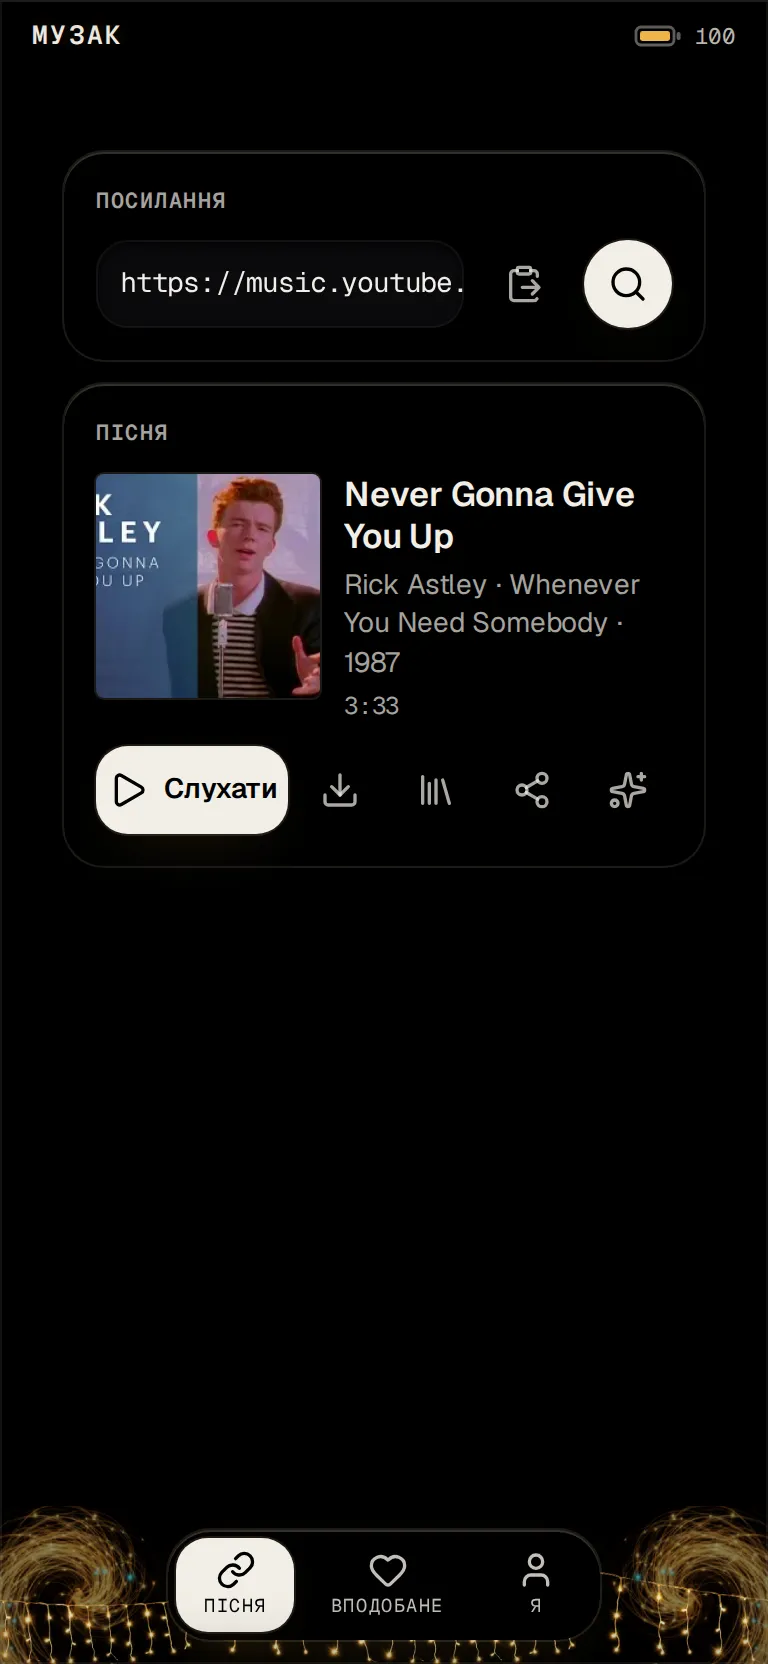
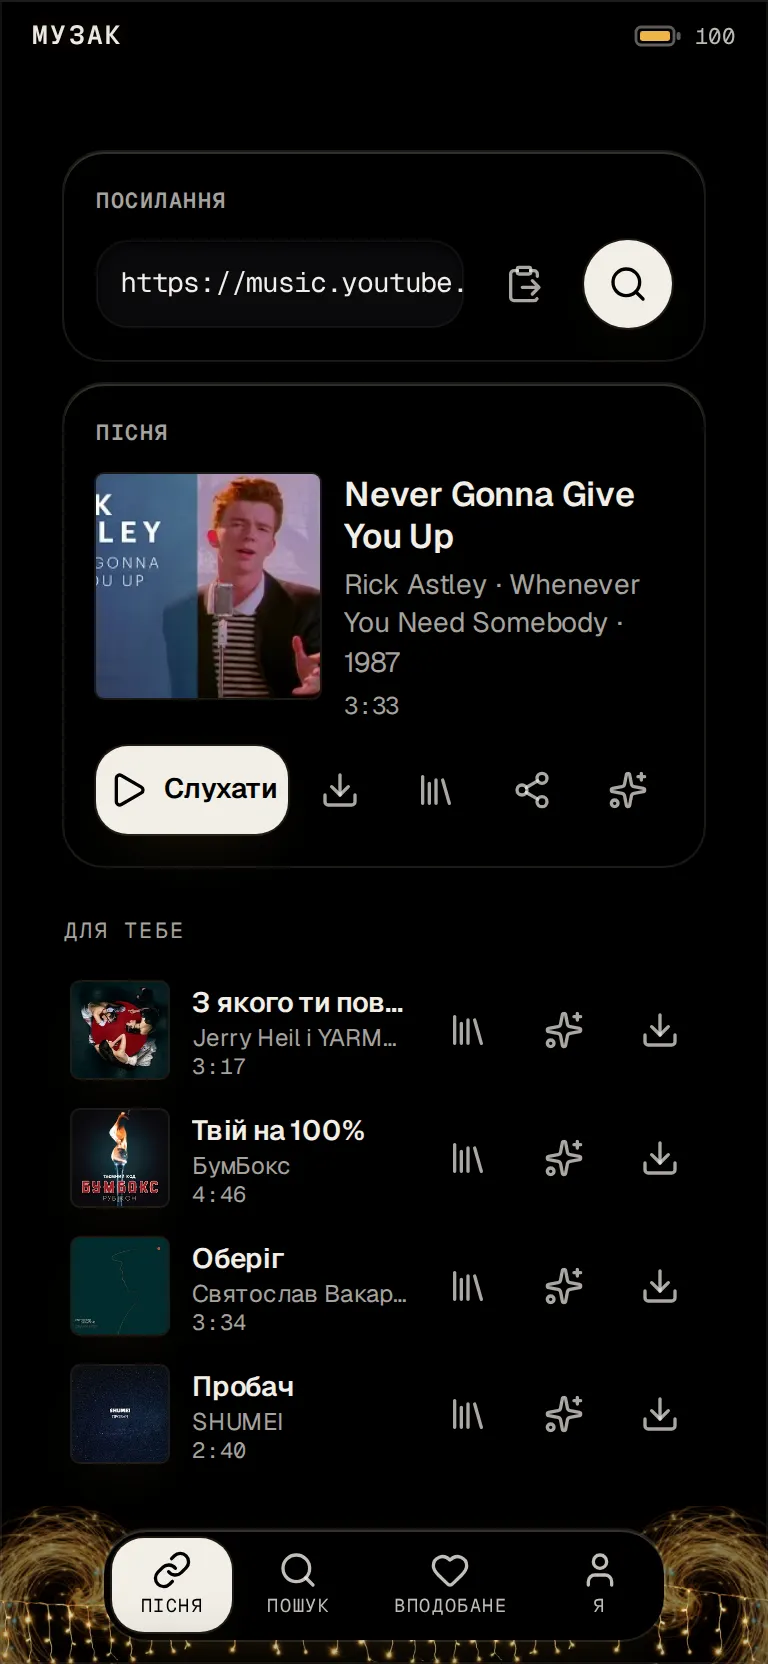
muzak:  — songs like the liked ones, under the song card and on search before a search
radio of the liked songs. The three latest likes' YouTube Music radios (/feed/music/radio, microspec-edge
12052e7: 45-49 songs each in ~0.9 s, measured live) are mixed in turns by rt/muzak.js mixRadios, without the
liked songs; the list scrolls on with the next two likes' radios. Shared by both tabs, read once a visit.
Not connected: one line and . The song tab gets the big player over the list when one of
these plays; the section sits beside the card, so the card's tools stay its own.

The store's song capture retaken with the section; the search capture retaken at the full 2x size the rest
of the store uses (my 2026-10-13 import had halved it).

diff --git a/apps/muzak/view.js b/apps/muzak/view.js
@@ -13,10 +13,10 @@ import { holdAudio } from "/_rt/mediasession.js";
 import { sealedUrl } from "/_rt/sealedfetch.js";
 import { authWall } from "/_rt/authwall.js";
 import { shapeOf, scalePath, shaper } from "/_rt/shape.js";
-import { videoId, clock, byline, errorKey, songOfFound, FIXTURE_LINK, FIXTURE_META, FIXTURE_LIKES, FIXTURE_QUERY, FIXTURE_SEARCH } from "/_rt/muzak.js";
+import { videoId, clock, byline, errorKey, songOfFound, mixRadios, FIXTURE_LINK, FIXTURE_META, FIXTURE_LIKES, FIXTURE_QUERY, FIXTURE_SEARCH, FIXTURE_RADIO } from "/_rt/muzak.js";
 import { taskOne, taskCall } from "/_rt/task.js";
 import { session, restore } from "/_rt/auth.js";
-import { useLikes, LikesConnect, LikesHead, LikeRow, LikesSkeleton } from "/_rt/ytlikes.js";
+import { useLikes, connect, $lBusy, LikesConnect, LikesHead, LikeRow, LikesSkeleton } from "/_rt/ytlikes.js";
 
 
 const Icon = (icon, cls = "") => html`<iconify-icon icon=${icon} class=${cls}></iconify-icon>`;
@@ -186,7 +186,8 @@ export function muzak({ S, toast }) {
   const song = meta ? songOfMeta(meta, link) : null;
   const on = !!song && cur === song.id;
 
-  return html`<div data-muzak data-busy=${busy || null} data-song=${meta ? meta.id : null} data-playing=${on && playing ? "true" : null} class="flex flex-col gap-[var(--ms-gap)] p-[var(--ms-pad)]">
+  return html`<div class="flex flex-col">
+  <div data-muzak data-busy=${busy || null} data-song=${meta ? meta.id : null} data-playing=${on && playing ? "true" : null} class="flex flex-col gap-[var(--ms-gap)] p-[var(--ms-pad)]">
     <${Panel} title=${T(t, "link")}>
       <form class="flex items-center gap-2" onSubmit=${(e) => { e.preventDefault(); find(link); }}>
         <textarea rows="1" data-line ref=${input} data-link inputmode="url" autocomplete="off" autocapitalize="off" spellcheck="false" enterkeyhint="go"
@@ -231,6 +232,9 @@ export function muzak({ S, toast }) {
           class=${`btn btn-ghost btn-circle shrink-0 w-[var(--ms-ctl)] h-[var(--ms-ctl)] min-h-0 ${a.active ? "text-primary" : "text-base-content/70"} ${a.pulse ? "animate-pulse" : ""}`}>${Icon(a.icon, "text-[length:var(--ms-icon)]")}</button>`)}
       </div>`}
     <//>` : null}
+  </div>
+  
+  <div class="px-[var(--ms-pad)] pb-[var(--ms-pad)] pt-2"><${ForYou} t=${t} locale=${locale} toast=${toast} player /></div>
   </div>`;
 }
 
@@ -313,6 +317,84 @@ export function likes({ S, toast, confirm }) {
 }
 
 
+const SEEDS_FIRST = 3, SEEDS_MORE = 2;
+const $recs = atom(gate ? FIXTURE_RADIO.songs.map(songOfFound) : null);   
+const $rbusy = atom(""), $rerr = atom("");   
+let rseed = 0;
+async function readRecs(liked, locale, more = false) {
+  if (gate || $rbusy.get() || (!more && $recs.get()) || rseed >= liked.length) return;
+  const seeds = liked.slice(rseed, rseed + (more ? SEEDS_MORE : SEEDS_FIRST)), was = $recs.get() || [];
+  rseed += seeds.length;
+  $rerr.set(""); $rbusy.set(more ? "more" : "list");
+  try {
+    const got = await Promise.allSettled(seeds.map((s) => fetch(`${VPS_PROXY}/music/radio?v=${s.id}&hl=${locale === "en" ? "en" : "uk"}`, { signal: AbortSignal.timeout(30000) })
+      .then((r) => (r.ok ? r.json() : Promise.reject(r.status)))));
+    const lists = got.filter((g) => g.status === "fulfilled").map((g) => (g.value.songs || []).map(songOfFound));
+    if (!lists.length) { if (!was.length) $rerr.set("errRecs"); return; }
+    const songs = [...was, ...mixRadios(lists, [...liked.map((s) => s.id), ...was.map((s) => s.id)])];
+    $recs.set(songs);
+    if (more && $q.get() === was) $q.set(songs);   
+  } catch { if (!was.length) $rerr.set("errRecs"); }
+  finally { $rbusy.set(""); }
+}
+
+
+function Player({ now, t, locale, toast }) {
+  const playing = useStore($playing), loading = useStore($loading), pos = useStore($pos), dur = useStore($dur), kept = useStore($kept), repeat = useStore($repeat), dl = useStore($dl), mixed = useStore($mixed);
+  return html`<section data-player aria-label=${T(t, "now")} class="flex flex-col items-center gap-[var(--ms-gap)]">
+    <${Orb} song=${now} />
+    <${Transport} form locale=${locale} playing=${playing} onToggle=${() => toggle()} className="w-full pt-1"
+      onPrev=${() => step(-1)} onNext=${() => step(1)} pos=${pos} dur=${dur} onSeek=${seek} onScrub=${seek} repeat=${shownRepeat(repeat)} onRepeat=${flipRepeat}
+      title=${now.title} subtitle=${loading ? T(t, "preparing") : [now.artist, clock(now.dur)].filter(Boolean).join(" · ")}
+      actions=${actionsFor(now, kept[now.id], dl, t, toast, mixed[now.id]).filter((a) => a.id !== "download")} />
+  </section>`;
+}
+
+
+function ForYou({ t, locale, toast, player = false }) {
+  const { l, songs: liked, on, reading } = useLikes();
+  const recs = useStore($recs), busy = useStore($rbusy), err = useStore($rerr), lbusy = useStore($lBusy);
+  const cur = useStore($cur), playing = useStore($playing), kept = useStore($kept), dl = useStore($dl), mixed = useStore($mixed);
+  useEffect(() => { if (on && liked.length) readRecs(liked, locale); }, [on, liked.length]);
+  const tail = useRef();
+  const more = on && rseed < liked.length;
+  useEffect(() => {
+    if (!tail.current || !more) return;
+    const io = new IntersectionObserver(([e]) => { if (e.isIntersecting) readRecs(liked, locale, true); }, { rootMargin: "0px 0px 600px 0px" });
+    io.observe(tail.current);
+    return () => io.disconnect();
+  }, [recs?.length, busy, more]);
+  if (reading || (l === null && !gate)) return null;   
+  const list = recs || [];
+  const now = player ? list.find((s) => s.id === cur) || null : null;
+
+  return html`<section data-foryou data-songs=${on ? list.length : null} aria-labelledby="mz-foryou" class="flex flex-col gap-[var(--ms-gap)]">
+    ${now ? html`<${Player} now=${now} t=${t} locale=${locale} toast=${toast} />` : null}
+    <h2 id="mz-foryou" class="font-mono text-[length:var(--ms-label)] uppercase tracking-wider text-base-content/70">${T(t, "forYou")}</h2>
+    ${!on ? html`<div data-connect class="flex flex-col gap-3">
+        <p class="text-sm leading-relaxed text-base-content/80">${T(t, "forYouConnect")}</p>
+        <button data-yt-connect disabled=${lbusy === "connect"} onClick=${() => connect("muzak")}
+          class=${`btn btn-primary w-full h-[var(--ms-ctl)] min-h-0 gap-2 sf-e3 ${lbusy === "connect" ? "animate-pulse" : ""}`}>
+          ${Icon("lucide:heart", "text-[length:var(--ms-icon)]")}<span>${T(t, lbusy === "connect" ? "connecting" : "connect")}</span>
+        </button>
+      </div>`
+    : !liked.length ? html`<p data-none class="text-sm text-base-content/70">${T(t, "forYouEmpty")}</p>`
+    : err ? html`<div data-err role="alert" class="text-sm text-error">${T(t, err)}</div>`
+    : busy === "list" || !recs ? html`<div class="flex flex-col gap-1"><${LikesSkeleton} /></div>`
+    : html`<div class="flex flex-col gap-1">
+        ${list.map((s) => {
+          const here = cur === s.id;
+          return html`<${LikeRow} key=${s.id} s=${s} here=${here} busy=${here && playing} label=${`${T(t, "aPlay")}: ${s.title}`} onPick=${() => toggle(s, list)} attr=${{ "data-play": s.id }}>
+            ${rowTools(s, { t, toast, kept, mixed, dl })}
+          <//>`;
+        })}
+        ${busy === "more" ? html`<${LikesSkeleton} n=${2} />` : null}
+        ${more ? html`<div ref=${tail} data-tail aria-hidden="true" class="h-px"></div>` : null}
+      </div>`}
+  </section>`;
+}
+
+
 const $sq = atom(gate ? FIXTURE_QUERY : "");
 const $found = atom(gate ? FIXTURE_SEARCH.songs.map(songOfFound) : null);   
 const $sbusy = atom(""), $serr = atom("");   
@@ -341,12 +423,14 @@ async function lookup(q, locale, more = false) {
 export function search({ S, toast }) {
   const t = useStore(S.t), locale = useStore(S.locale);
   const q = useStore($sq), found = useStore($found), busy = useStore($sbusy), err = useStore($serr), playErr = useStore($err);
-  const cur = useStore($cur), playing = useStore($playing), loading = useStore($loading), pos = useStore($pos), dur = useStore($dur), kept = useStore($kept), repeat = useStore($repeat), dl = useStore($dl), mixed = useStore($mixed);
+  const cur = useStore($cur), playing = useStore($playing), kept = useStore($kept), dl = useStore($dl), mixed = useStore($mixed), recs = useStore($recs);
   const input = useRef();
   useEffect(() => { if (!gate && found === null) input.current?.focus(); }, []);
   useEffect(() => { if (!gate) restore().catch(() => {}); }, []);   
   const songs = found || [];
-  const now = songs.find((s) => s.id === cur) || null;   
+  
+  const now = songs.find((s) => s.id === cur) || (found === null && recs?.find((s) => s.id === cur)) || null;
+  
   const tail = useRef();
   useEffect(() => {
     if (!tail.current || !snext) return;
@@ -367,20 +451,15 @@ export function search({ S, toast }) {
     </form>
     ${err || playErr ? html`<div data-err role="alert" class="text-sm text-error">${T(t, err || playErr)}</div>` : null}
 
-    ${now ? html`<section data-player aria-label=${T(t, "now")} class="flex flex-col items-center gap-[var(--ms-gap)]">
-      <${Orb} song=${now} />
-      <${Transport} form locale=${locale} playing=${playing} onToggle=${() => toggle()} className="w-full pt-1"
-        onPrev=${() => step(-1)} onNext=${() => step(1)} pos=${pos} dur=${dur} onSeek=${seek} onScrub=${seek} repeat=${shownRepeat(repeat)} onRepeat=${flipRepeat}
-        title=${now.title} subtitle=${loading ? T(t, "preparing") : [now.artist, clock(now.dur)].filter(Boolean).join(" · ")}
-        actions=${actionsFor(now, kept[now.id], dl, t, toast, mixed[now.id]).filter((a) => a.id !== "download")} />
-    </section>` : null}
+    ${now ? html`<${Player} now=${now} t=${t} locale=${locale} toast=${toast} />` : null}
 
     ${busy === "list" ? html`<${LikesSkeleton} />`
-    : found === null ? html`<div data-hint class="py-8 flex flex-col items-center gap-2 text-center text-base-content/70">
+    : found === null ? html`<div data-hint class="py-4 flex flex-col items-center gap-2 text-center text-base-content/70">
         ${Icon("lucide:audio-lines", "text-3xl text-primary")}
         <div class="font-semibold text-sm text-base-content">${T(t, "searchHintTitle")}</div>
         <div class="text-sm max-w-[32ch]">${T(t, "searchHint")}</div>
-      </div>`
+      </div>
+      <${ForYou} t=${t} locale=${locale} toast=${toast} />`
     : !songs.length ? html`<div data-none class="py-6 flex flex-col items-center gap-1 text-center">
         <div class="font-semibold text-sm">${T(t, "searchEmpty")}</div><div class="text-sm text-base-content/70">${T(t, "searchEmptyHint")}</div>
       </div>`

diff --git a/rt/muzak.js b/rt/muzak.js
@@ -36,3 +36,23 @@ export const FIXTURE_SEARCH = { songs: [
   { id: "kKbuv7NAMTc", title: "Я так хочу...", artist: "Океан Ельзи", album: "Dolce vita", duration: 282, cover: "https://i.ytimg.com/vi/kKbuv7NAMTc/mqdefault.jpg" },
   { id: "hTU6Kz6muXQ", title: "Дві весни", artist: "Jerry Heil і Sviatoslav Vakarchuk", album: "Дві весни", duration: 231, cover: "https://i.ytimg.com/vi/hTU6Kz6muXQ/mqdefault.jpg" },
 ] };
+
+export function mixRadios(lists, skip = []) {
+  const out = [], seen = new Set(skip);
+  for (let i = 0, any = true; any; i++) {
+    any = false;
+    for (const l of lists) {
+      if (i >= l.length) continue;
+      any = true;
+      if (!seen.has(l[i].id)) { seen.add(l[i].id); out.push(l[i]); }
+    }
+  }
+  return out;
+}
+
+export const FIXTURE_RADIO = { songs: [
+  { id: "EdSz0PeLVgY", title: "З якого ти поверху неба?", artist: "Jerry Heil і YARMAK", album: "АРХЕТИПИ", duration: 197, cover: "https://i.ytimg.com/vi/EdSz0PeLVgY/mqdefault.jpg" },
+  { id: "iJF2vlu0308", title: "Твій на 100%", artist: "БумБокс", album: "Таємний код Рубікон Частина 1", duration: 286, cover: "https://i.ytimg.com/vi/iJF2vlu0308/mqdefault.jpg" },
+  { id: "xrI5jBPT4Cw", title: "Оберіг", artist: "Святослав Вакарчук", album: "Оранжерея", duration: 214, cover: "https://i.ytimg.com/vi/xrI5jBPT4Cw/mqdefault.jpg" },
+  { id: "lf7NA8FwMxo", title: "Пробач", artist: "SHUMEI", album: "Пробач", duration: 160, cover: "https://i.ytimg.com/vi/lf7NA8FwMxo/mqdefault.jpg" },
+] };

diff --git a/rt/tests/muzak_test.js b/rt/tests/muzak_test.js
@@ -1,5 +1,12 @@
 import { assertEquals } from "jsr:@std/assert@1";
-import { videoId, clock, byline, errorKey, songOfFound, FIXTURE_SEARCH } from "../muzak.js";
+import { videoId, clock, byline, errorKey, songOfFound, mixRadios, FIXTURE_SEARCH } from "../muzak.js";
+
+Deno.test("mixRadios: the radios in turns, no song twice, none of the skipped ones", () => {
+  const s = (id) => ({ id });
+  assertEquals(mixRadios([[s("a1"), s("a2"), s("a3")], [s("b1"), s("a2")], [s("c1")]]).map((x) => x.id), ["a1", "b1", "c1", "a2", "a3"]);
+  assertEquals(mixRadios([[s("a1"), s("liked")], [s("liked"), s("b2")]], ["liked", "shown"]).map((x) => x.id), ["a1", "b2"]);
+  assertEquals(mixRadios([]), []);
+});
 
 Deno.test("videoId: YouTube link shapes give the id, anything else null", () => {
   for (const u of ["https://music.youtube.com/watch?v=dQw4w9WgXcQ&list=RD", "https://youtu.be/dQw4w9WgXcQ?si=1", "https://youtube.com/shorts/dQw4w9WgXcQ", " https://m.youtube.com/watch?v=dQw4w9WgXcQ "]) assertEquals(videoId(u), "dQw4w9WgXcQ", u);
